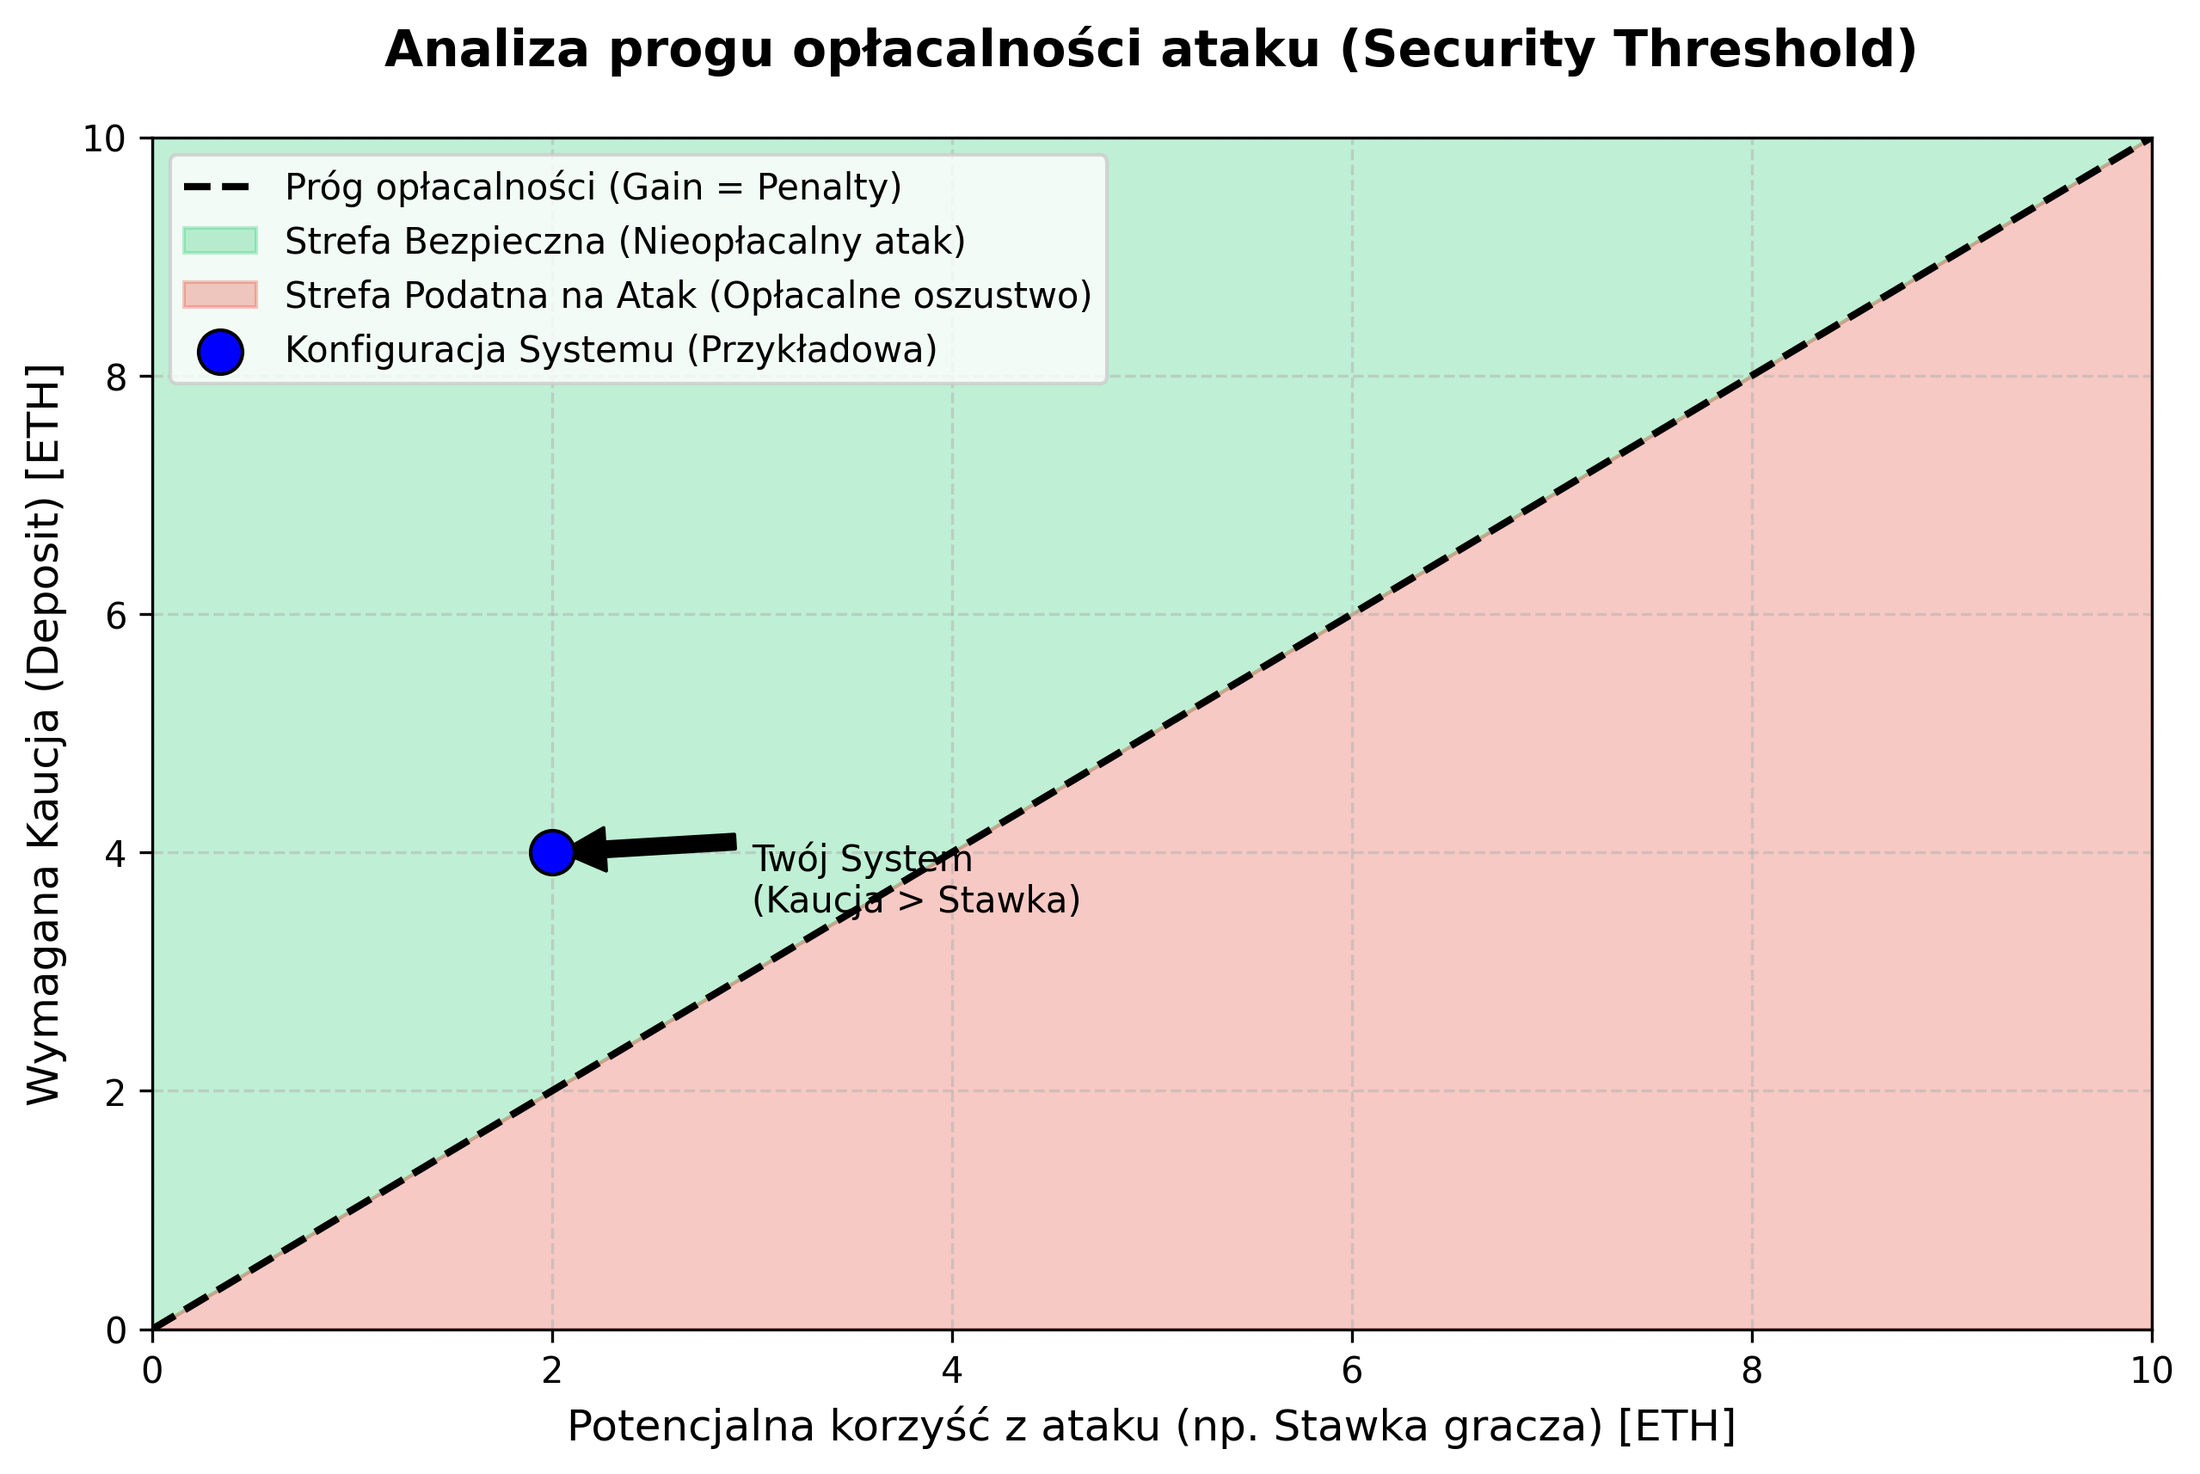
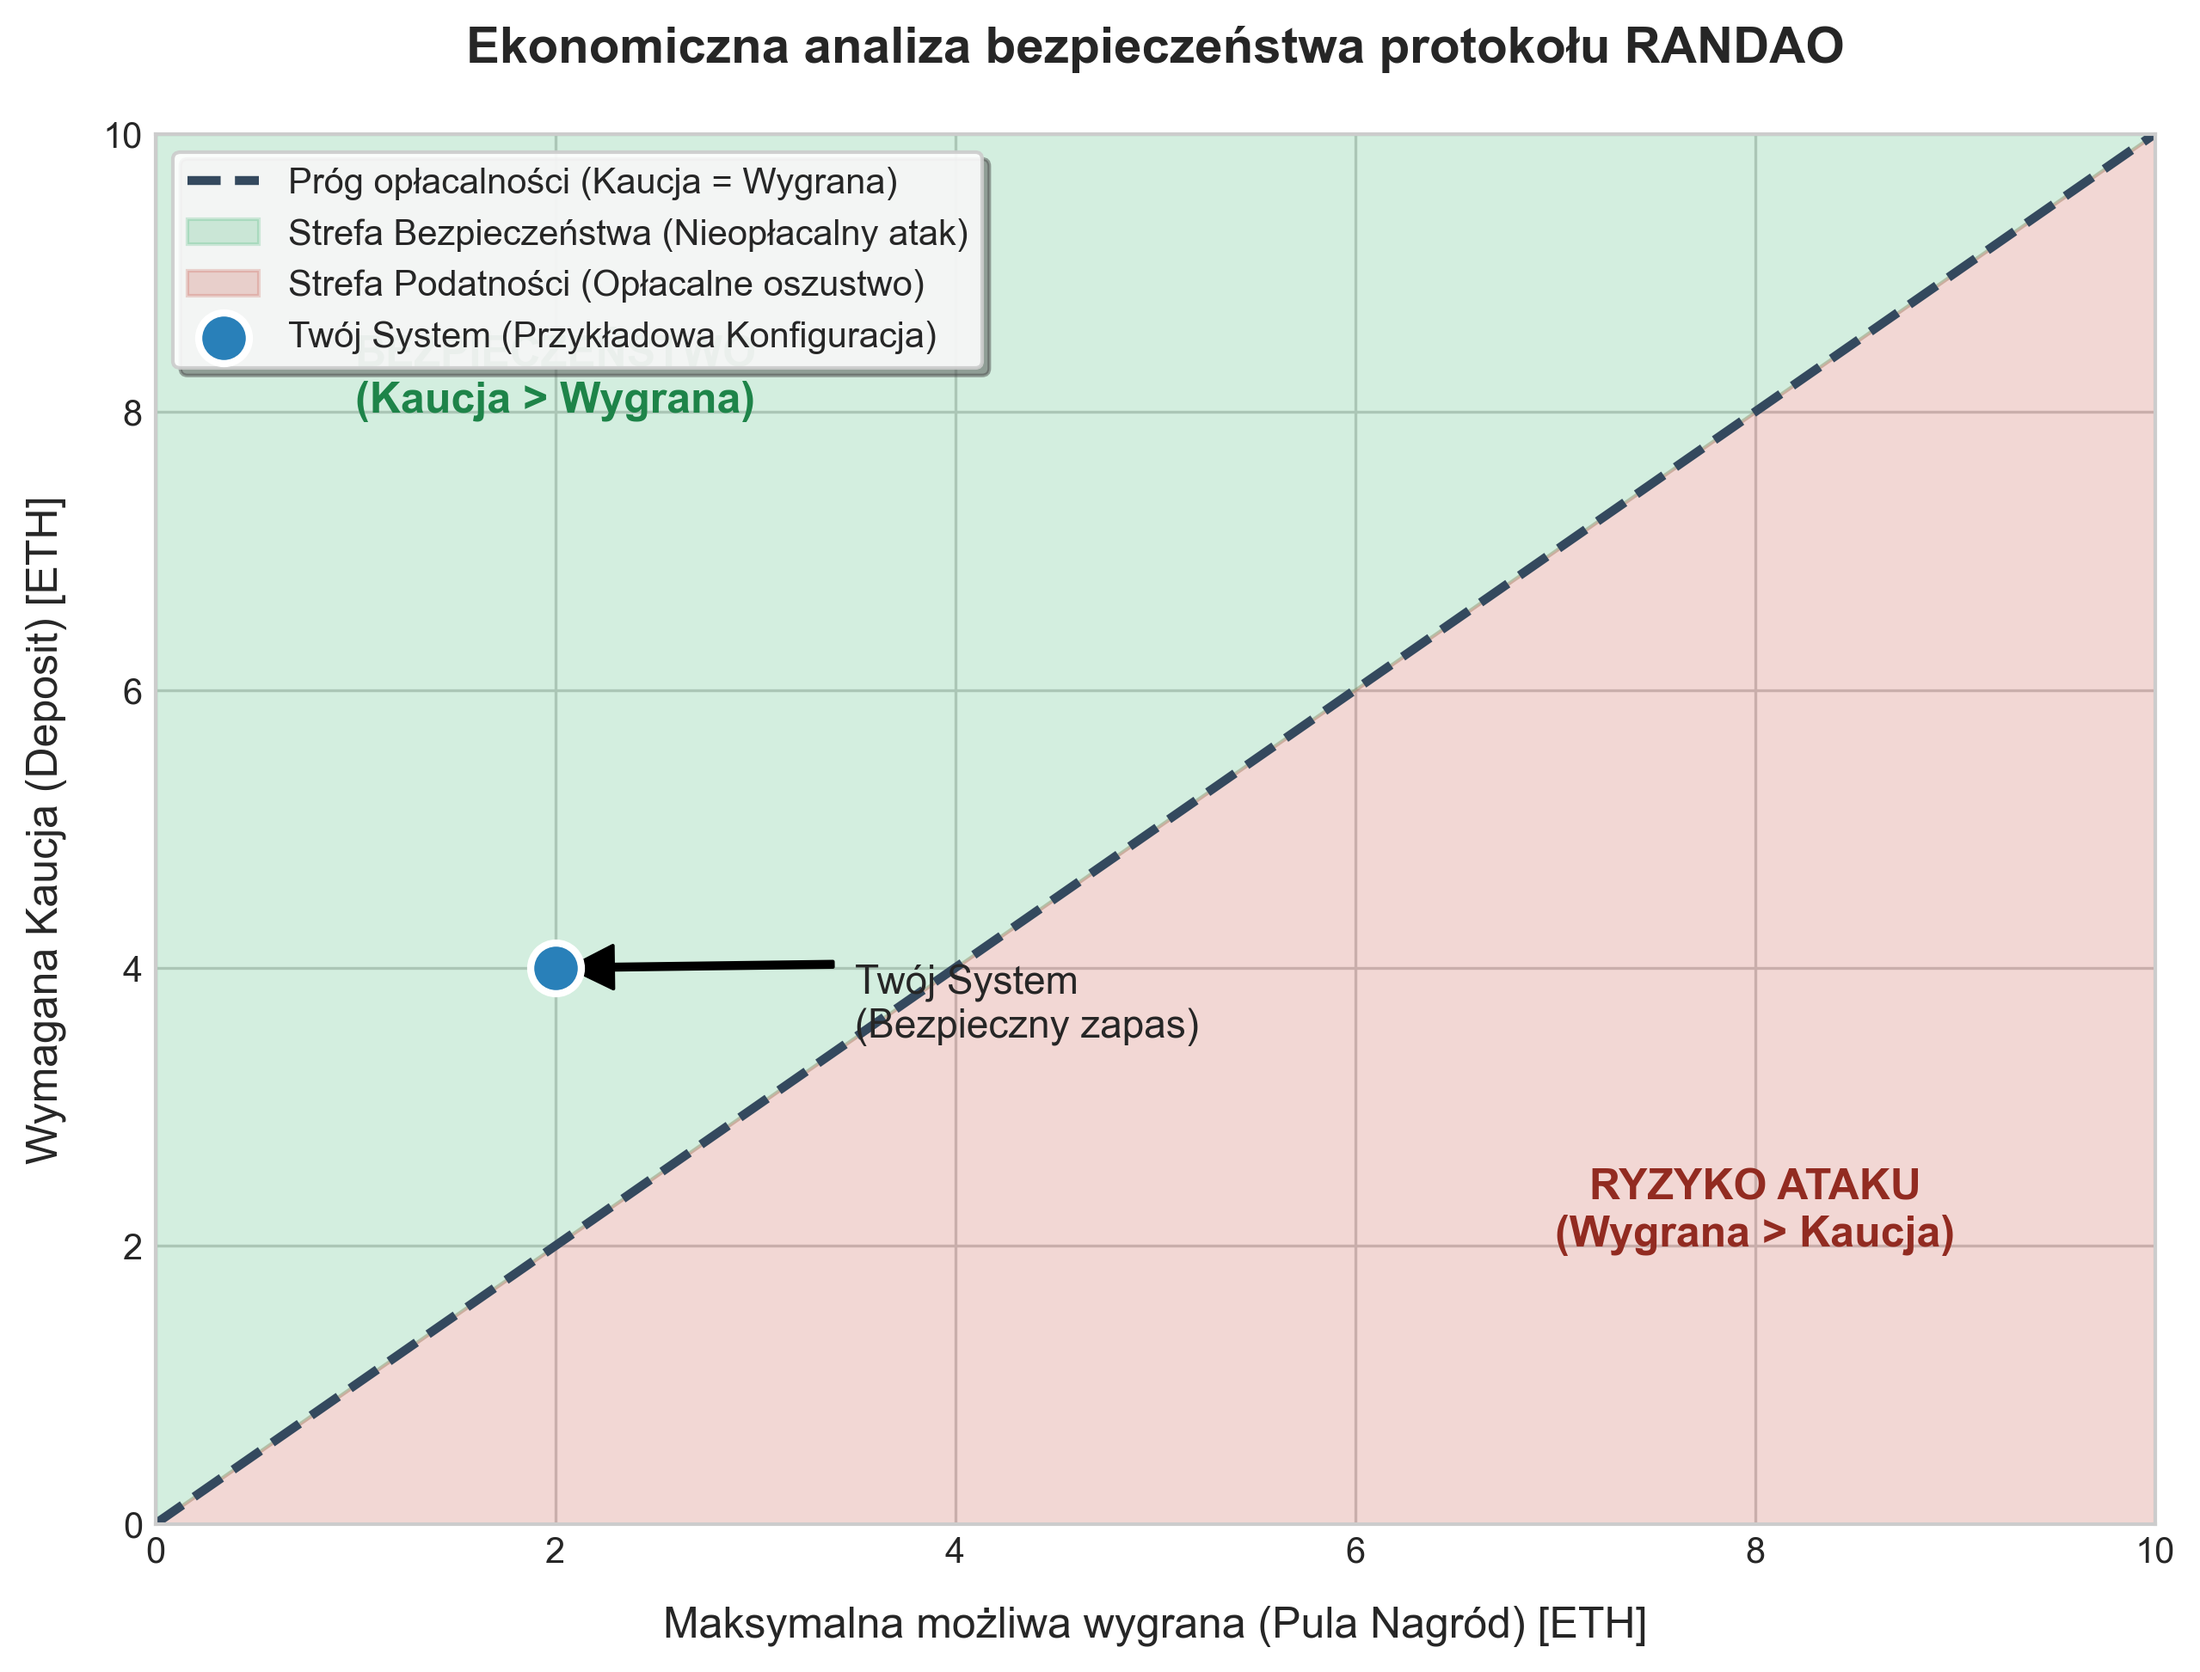
final

diff --git a/app.py b/app.py
@@ -1,50 +1,102 @@
-# app.py
 import streamlit as st
 import pandas as pd
 import matplotlib.pyplot as plt
+import os
 
-st.set_page_config(page_title="Analiza Blockchain VRF vs RANDAO", layout="wide")
+# Konfiguracja strony
+st.set_page_config(page_title="Dashboard Inżynierski: VRF vs RANDAO", layout="wide")
 
-st.title("📊 Analiza generatorów losowości: VRF vs RANDAO")
-st.markdown("Dashboard do pracy inżynierskiej. Autor: Szymon Tomków")
+st.title("🛡 Analiza Porównawcza: VRF vs RANDAO")
+st.markdown("Dashboard interaktywny do pracy inżynierskiej. Wizualizacja kosztów i losowości.")
 
-# 1. Wczytanie danych
-st.sidebar.header("Konfiguracja")
-uploaded_file = st.sidebar.file_uploader("Wgraj plik wyniki_badan.csv", type=["csv"])
+# --- FUNKCJE POMOCNICZE ---
+def load_data(filename):
+    """Próbuje załadować plik automatycznie, a jak nie ma, to prosi o upload."""
+    if os.path.exists(filename):
+        return pd.read_csv(filename)
+    else:
+        uploaded = st.sidebar.file_uploader(f"Brak pliku {filename}. Wgraj go ręcznie:", type="csv")
+        if uploaded:
+            return pd.read_csv(uploaded)
+    return None
 
-if uploaded_file is not None:
-    df = pd.read_csv(uploaded_file)
-    st.success("Plik wczytany pomyślnie!")
+# --- WIDOK GŁÓWNY (ZAKŁADKI) ---
+tab1, tab2, tab3 = st.tabs(["💰 Analiza Kosztów (Gas)", "🎲 Analiza Losowości (Entropia)", "⚠ Symulacja Ataku"])
+
+# === ZAKŁADKA 1: KOSZTY ===
+with tab1:
+    st.header("Porównanie kosztów operacyjnych")
+    df_costs = load_data("wyniki_badan.csv")
     
-    # Sekcja 1: Statystyki ogólne
-    col1, col2, col3 = st.columns(3)
-    avg_randao = df['randao_total_gas'].mean()
-    avg_vrf = df['vrf_request_gas'].mean() + df['vrf_callback_gas'].mean()
-    
-    col1.metric("Średni koszt RANDAO", f"{int(avg_randao)} Gas")
-    col2.metric("Średni koszt VRF (Total)", f"{int(avg_vrf)} Gas")
-    col3.metric("Różnica", f"{int(avg_vrf - avg_randao)} Gas", delta_color="inverse")
+    if df_costs is not None:
+        # Sprawdzenie czy mamy dobre kolumny
+        if 'randao_total_gas' in df_costs.columns:
+            # Metryki
+            avg_randao = df_costs['randao_total_gas'].mean()
+            avg_vrf = df_costs['vrf_request_gas'].mean() + df_costs['vrf_callback_gas'].mean()
+            
+            c1, c2, c3 = st.columns(3)
+            c1.metric("Średni koszt RANDAO", f"{int(avg_randao)} gas")
+            c2.metric("Średni koszt VRF", f"{int(avg_vrf)} gas")
+            diff = ((avg_vrf - avg_randao) / avg_randao) * 100
+            c3.metric("Różnica (VRF vs RANDAO)", f"{int(avg_vrf - avg_randao)} gas", f"{diff:.1f}%")
+            
+            # Wykres
+            st.subheader("Przebieg kosztów w kolejnych próbach")
+            fig, ax = plt.subplots(figsize=(10, 4))
+            ax.plot(df_costs['iteracja'], df_costs['randao_total_gas'], label='RANDAO', marker='o')
+            ax.plot(df_costs['iteracja'], df_costs['vrf_request_gas'] + df_costs['vrf_callback_gas'], label='VRF Total', marker='s')
+            ax.set_xlabel("Numer próby")
+            ax.set_ylabel("Zużycie gazu (wei)")
+            ax.legend()
+            ax.grid(True, alpha=0.3)
+            st.pyplot(fig)
+        else:
+            st.error("Błąd: Plik wyniki_badan.csv ma złe kolumny. Sprawdź czy to właściwy plik.")
+    else:
+        st.warning("Nie znaleziono pliku 'wyniki_badan.csv'.")
 
-    # Sekcja 2: Wykresy
-    st.subheader("Porównanie kosztów w czasie")
+# === ZAKŁADKA 2: LOSOWOŚĆ ===
+with tab2:
+    st.header("Analiza rozkładu liczb losowych")
+    df_stats = load_data("dane_statystyczne.csv")
     
-    fig, ax = plt.subplots(figsize=(10, 4))
-    ax.plot(df['iteracja'], df['randao_total_gas'], label='RANDAO', marker='o')
-    ax.plot(df['iteracja'], df['vrf_request_gas'] + df['vrf_callback_gas'], label='VRF Total', marker='s')
-    ax.set_xlabel("Numer próby")
-    ax.set_ylabel("Gas")
-    ax.legend()
-    ax.grid(True, alpha=0.3)
-    
-    st.pyplot(fig)
+    if df_stats is not None:
+        if 'randao_val' in df_stats.columns:
+            st.write("Histogram pokazuje, czy liczby są równomiernie rozłożone (Idealnie: płaski wykres).")
+            
+            fig2, (ax1, ax2) = plt.subplots(1, 2, figsize=(12, 5))
+            
+            # Randao
+            ax1.hist(df_stats['randao_val'], bins=20, color='blue', alpha=0.7)
+            ax1.set_title("Histogram RANDAO")
+            ax1.set_xlabel("Wylosowana wartość")
+            
+            # VRF
+            ax2.hist(df_stats['vrf_val'], bins=20, color='green', alpha=0.7)
+            ax2.set_title("Histogram VRF")
+            ax2.set_xlabel("Wylosowana wartość")
+            
+            st.pyplot(fig2)
+            
+            # Tabela statystyk
+            st.subheader("Podstawowe statystyki")
+            st.table(df_stats[['randao_val', 'vrf_val']].describe())
+        else:
+            st.error("Błąd: Plik dane_statystyczne.csv ma złe kolumny.")
+    else:
+        st.warning("Nie znaleziono pliku 'dane_statystyczne.csv'.")
 
-    # Sekcja 3: Tabela danych
-    with st.expander("Pokaż surowe dane"):
-        st.dataframe(df)
-
-else:
-    st.info("Oczekiwanie na plik CSV (wygeneruj go skryptem generate_stats.ts).")
+# === ZAKŁADKA 3: ATAK (Statyczna) ===
+with tab3:
+    st.header("Symulacja Ataku Last Revealer")
+    st.markdown("""
+    W tej sekcji prezentujemy wyniki symulacji ataku (z pliku `attack_simulation.ts`).
+    Wykres pokazuje, jak zmienia się opłacalność ataku wraz ze wzrostem kaucji.
+    """)
     
-    # Przykładowy widok (jeśli nie ma pliku)
-    st.markdown("---")
-    st.markdown("*Tutaj pojawi się analiza po wgraniu danych.*")
+    # Jeśli masz wygenerowany obraz, wyświetl go. Jeśli nie - placeholder.
+    if os.path.exists("wykres_progu_ataku.png"):
+        st.image("wykres_progu_ataku.png", caption="Próg opłacalności ataku")
+    else:
+        st.info("Uruchom skrypt `generuj_wykres_ataku.py`, aby wygenerować wykres opłacalności.")

diff --git a/generuj_wykres_ataku.py b/generuj_wykres_ataku.py
@@ -2,55 +2,60 @@ import matplotlib.pyplot as plt
 import numpy as np
 
 def save_attack_chart():
-    # Zakres wartości puli/stawki (np. od 0 do 10 ETH)
+    # Ustawienia wykresu
+    plt.style.use('seaborn-v0_8-whitegrid')
+    
+    # Zakres wartości puli (od 0 do 10 ETH)
     x = np.linspace(0, 10, 100)
     
-    # Linia graniczna: Kaucja = Wartość ataku (y = x)
-    # To jest nasz "Próg opłacalności"
+    # Linia graniczna: Wymagana Kaucja = Potencjalny Zysk
+    # To jest próg, powyżej którego atak jest nieopłacalny ekonomicznie
     y = x 
 
-    fig, ax = plt.subplots(figsize=(10, 6))
+    fig, ax = plt.subplots(figsize=(10, 7))
 
-    # Rysujemy linię graniczną
-    ax.plot(x, y, color='black', linestyle='--', linewidth=2, label='Próg opłacalności (Gain = Penalty)')
+    # 1. Rysujemy linię graniczną (Próg opłacalności)
+    ax.plot(x, y, color='#34495e', linestyle='--', linewidth=2.5, label='Próg opłacalności (Kaucja = Wygrana)')
 
-    # ZIELONA STREFA (Bezpieczna)
-    # Tam, gdzie Kaucja (Y) > Zysk z ataku (X)
-    # Wypełniamy obszar powyżej linii
-    ax.fill_between(x, y, 10, color='#2ecc71', alpha=0.3, label='Strefa Bezpieczna (Nieopłacalny atak)')
+    # 2. ZIELONA STREFA (Bezpieczna)
+    # Kaucja > Wygrana -> Atakujący traci więcej niż może zyskać
+    ax.fill_between(x, y, 12, color='#27ae60', alpha=0.2, label='Strefa Bezpieczeństwa (Nieopłacalny atak)')
+    # Dodatkowy tekst w strefie
+    ax.text(2, 8, "BEZPIECZEŃSTWO\n(Kaucja > Wygrana)", color='#1e8449', fontsize=12, fontweight='bold', ha='center')
 
-    # CZERWONA STREFA (Niebezpieczna)
-    # Tam, gdzie Kaucja (Y) < Zysk z ataku (X)
-    ax.fill_between(x, 0, y, color='#e74c3c', alpha=0.3, label='Strefa Podatna na Atak (Opłacalne oszustwo)')
+    # 3. CZERWONA STREFA (Niebezpieczna)
+    # Kaucja < Wygrana -> Opłaca się poświęcić kaucję, by zgarnąć pulę
+    ax.fill_between(x, -2, y, color='#c0392b', alpha=0.2, label='Strefa Podatności (Opłacalne oszustwo)')
+    # Dodatkowy tekst w strefie
+    ax.text(8, 2, "RYZYKO ATAKU\n(Wygrana > Kaucja)", color='#922b21', fontsize=12, fontweight='bold', ha='center')
 
-    # --- PUNKT PRACY TWOJEGO SYSTEMU ---
-    # Załóżmy dla przykładu, że w Twoim kontrakcie:
-    # Stawka gracza (Entry) = 0.1 ETH (To co chce "uratować" oszukując)
-    # Kaucja (Deposit) = 0.2 ETH (Tak się często ustawia, np. 2x stawka)
+    # --- PUNKT PRACY TWOJEGO SYSTEMU (Przykładowy) ---
+    # Załóżmy: Pula do wygrania = 1.0 ETH, Kaucja w systemie = 2.0 ETH
+    current_pot = 2.0  
+    current_deposit = 4.0 
+
+    ax.scatter([current_pot], [current_deposit], color='#2980b9', s=200, zorder=5, edgecolors='white', linewidth=2, label='Twój System (Przykładowa Konfiguracja)')
     
-    current_stake = 2.0  # Przykładowa stawka gracza na wykresie
-    current_deposit = 4.0 # Przykładowa kaucja (bezpieczna, bo wyższa)
+    # Strzałka wskazująca punkt
+    ax.annotate('Twój System\n(Bezpieczny zapas)', 
+                xy=(current_pot, current_deposit), 
+                xytext=(current_pot + 1.5, current_deposit - 0.5),
+                fontsize=11,
+                arrowprops=dict(facecolor='black', shrink=0.05, width=1.5))
 
-    ax.scatter([current_stake], [current_deposit], color='blue', s=150, zorder=5, edgecolors='black', label='Konfiguracja Systemu (Przykładowa)')
-    
-    # Strzałka i opis punktu
-    ax.annotate('Twój System\n(Kaucja > Stawka)', 
-                xy=(current_stake, current_deposit), 
-                xytext=(current_stake + 1, current_deposit - 0.5),
-                arrowprops=dict(facecolor='black', shrink=0.05))
-
-    # Opisy osi
-    ax.set_xlabel('Potencjalna korzyść z ataku (np. Stawka gracza) [ETH]', fontsize=12)
-    ax.set_ylabel('Wymagana Kaucja (Deposit) [ETH]', fontsize=12)
-    ax.set_title('Analiza progu opłacalności ataku (Security Threshold)', fontsize=14, weight='bold', pad=20)
+    # Opisy i formatowanie
+    ax.set_xlabel('Maksymalna możliwa wygrana (Pula Nagród) [ETH]', fontsize=12, labelpad=10)
+    ax.set_ylabel('Wymagana Kaucja (Deposit) [ETH]', fontsize=12, labelpad=10)
+    ax.set_title('Ekonomiczna analiza bezpieczeństwa protokołu RANDAO', fontsize=14, weight='bold', pad=20)
     
     ax.set_xlim(0, 10)
     ax.set_ylim(0, 10)
-    ax.grid(True, linestyle='--', alpha=0.5)
-    ax.legend(loc='upper left')
-
-    plt.savefig('wykres_progu_ataku.png', bbox_inches='tight', dpi=300)
-    print("Wygenerowano: wykres_progu_ataku.png")
+    ax.legend(loc='upper left', frameon=True, framealpha=0.9, shadow=True)
+    
+    # Zapis
+    filename = 'wykres_progu_ataku.png'
+    plt.savefig(filename, bbox_inches='tight', dpi=300)
+    print(f"Sukces! Wygenerowano poprawiony wykres: {filename}")
     plt.close()
 
 if __name__ == "__main__":
